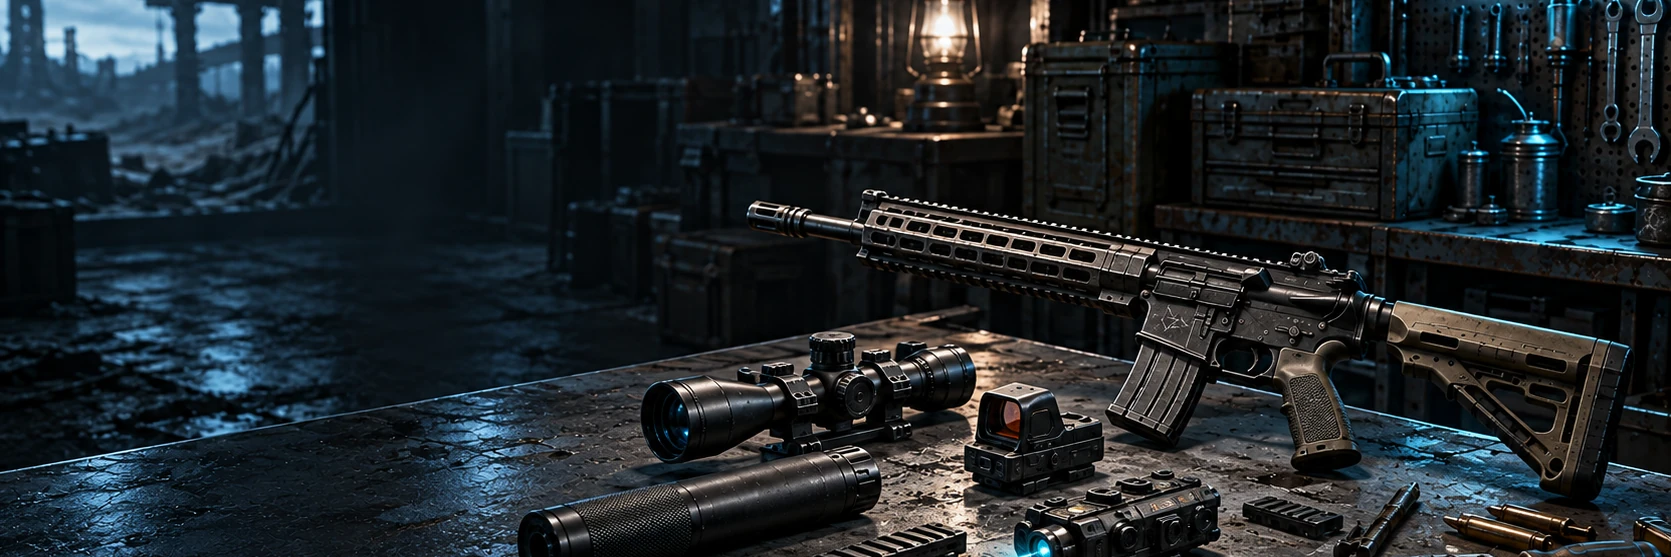
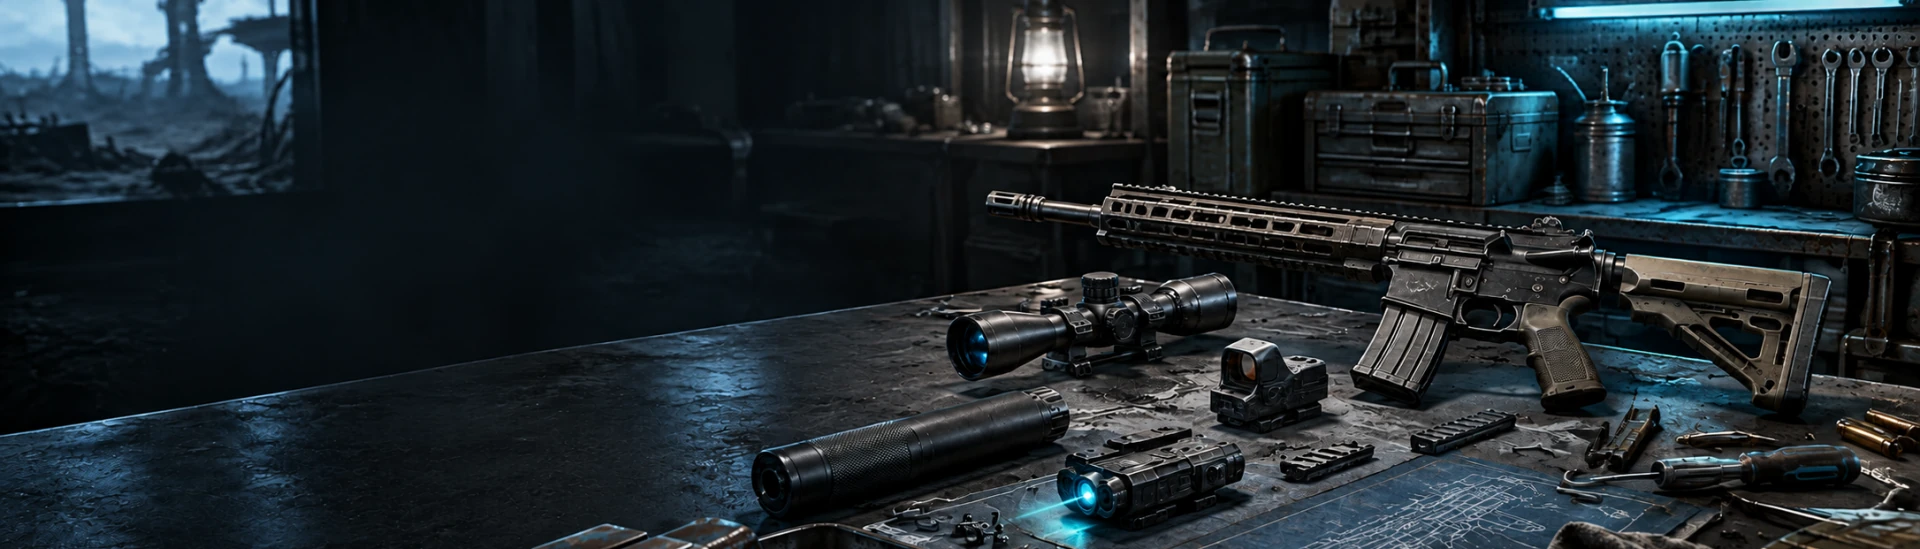
Replace Quick Attach Menu hero artwork (#51)

diff --git a/projects/project-data.js b/projects/project-data.js
@@ -61,7 +61,7 @@ window.K2040_PROJECTS = {
     description: "Change compatible weapon attachments from a fast in-game menu.",
     overview: "A Fallout 4 attachment menu for runtime 1.10.163. It requires the matching F4SE release and PrismaUI_F4 2.1.1; ECO and Mod Configuration Menu are optional.",
     image: "../assets/quick-attach-menu-card.webp?v=20260930imgfix1",
-    heroImage: "../assets/quick-attach-menu-hero.webp?v=20260930imgfix1",
+    heroImage: "../assets/quick-attach-menu-hero.webp?v=20260930205910",
     wideHero: true,
     nexus: "https://www.nexusmods.com/fallout4/mods/109575",
     githubRepo: "https://github.com/Kamui2040/K2040-Quick-Attach-Menu",
